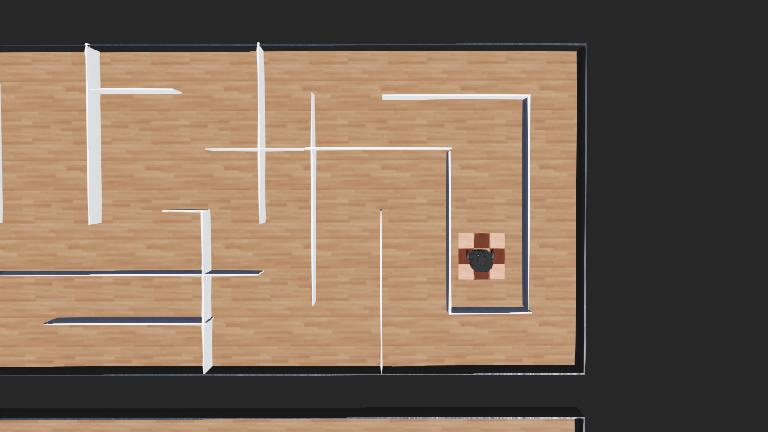
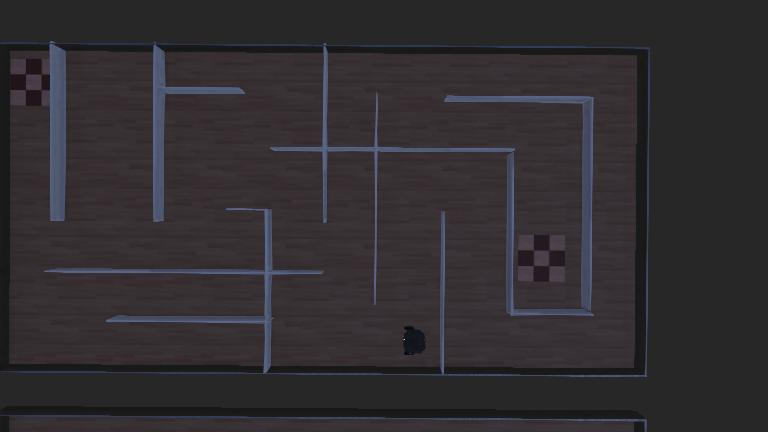
feat: all set with corridor and turning for now, next step is the new case for FSM

diff --git a/controllers/turtlebot_wall-following/turtlebot_wall-following.py b/controllers/turtlebot_wall-following/turtlebot_wall-following.py
@@ -253,7 +253,7 @@ while robot.step(timestep) != -1:
 
     if current_state == 'turn_around':
         u_d = 0.0
-        w_d = 18.0  # turn 180°
+        w_d = 18.5  # turn 180°
 
     if current_state == 'backward':
         u_d = -0.5
